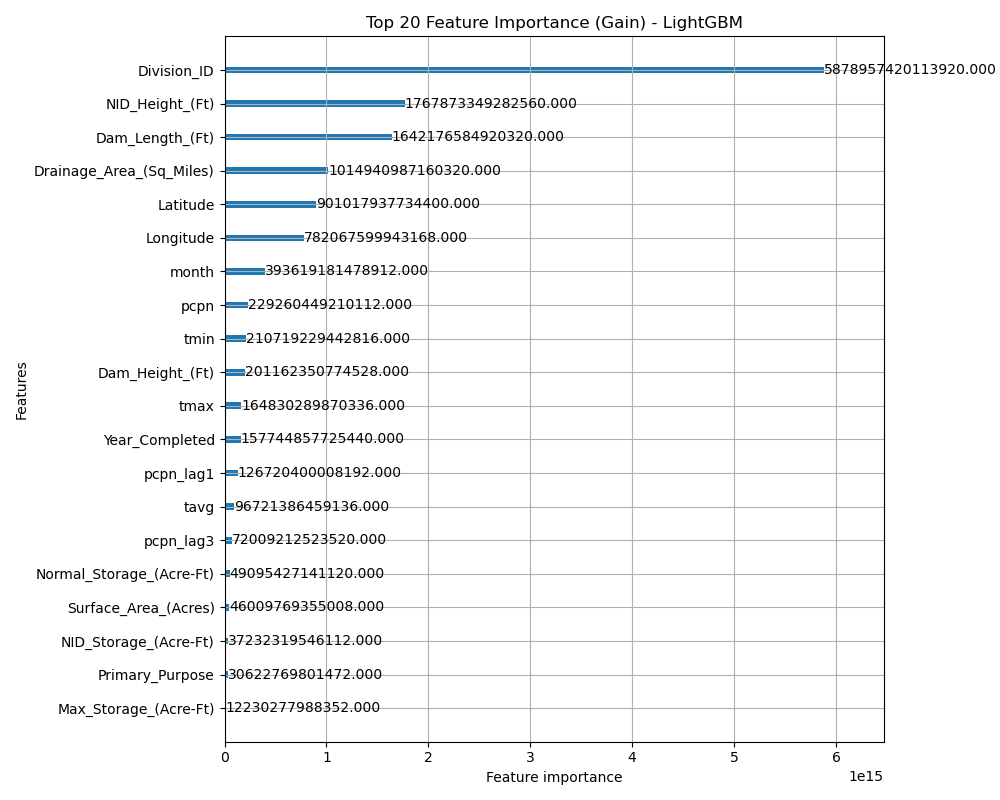
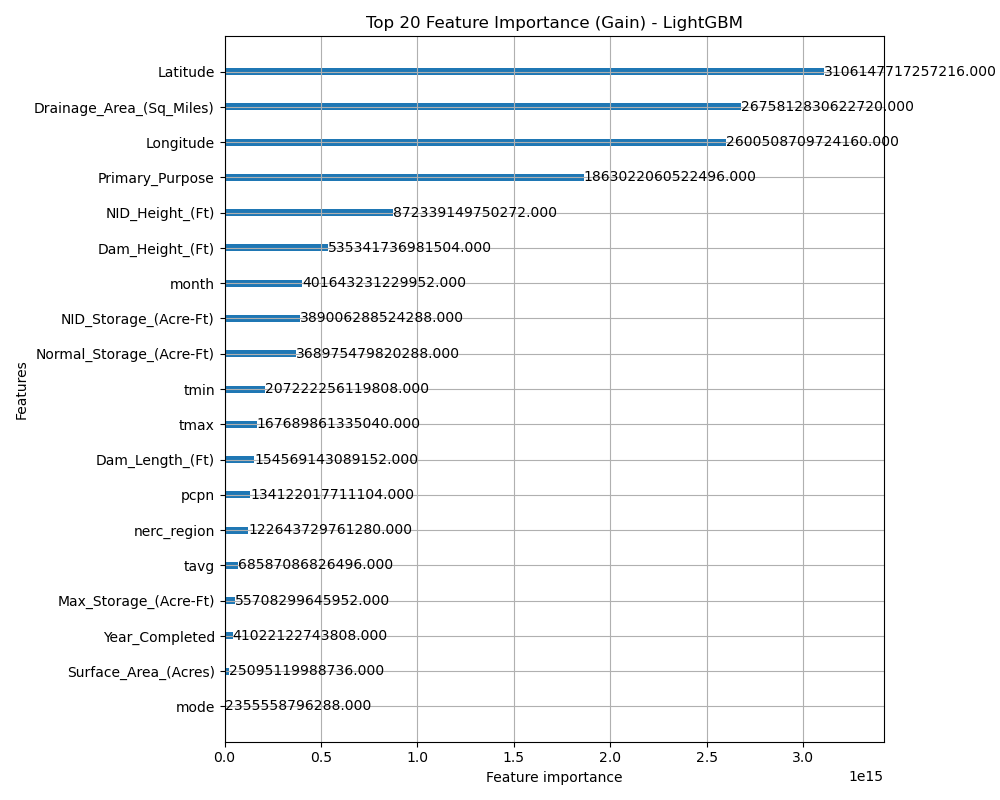
added results and README test

diff --git a/README.md b/README.md
@@ -1,53 +1,95 @@
-# fall-2025-climate-change-and-hydropower
-Team project: fall-2025-climate-change-and-hydropower
+### Climate Change and Hydropower 
 
-We do a 80:10:10 split. 90% is int train_val_set.csv and 10% is in final_test_set.csv We do not touch this until the very end.
+This is a repository for the Climate Change and Hydropower project as part of The Erdős Institute Fall 2025 Data Science Bootcamp.
+Team members: [Daniela Beckelhymer](https://github.com/dbeck7296), [Jeffrey Jackson](https://github.com/jeffreyjacksonwork), [Cory Peters](https://github.com/CPeters31415926535), [Sreelakshmi Sindhu](https://github.com/sreelakshmisindhu).
 
-Features:
+## Table of contents
 
-year - Year of row
+1. Introduction
+2. 
 
-month - Month of row
 
-RectifHyd_MWh - Our Target, the MWh (Megawatt hour) the dam produced. RectifHyd is our source for this data.
+## Introduction
 
-mode - Either "Storage" or "RoR" indicating if the plant is primarily operated as a storage or ron-of-river facility
+Hydropower supplies roughly 30-35% of US renewable electricity and plays a vital role in balancing the power grid, especially as variable solar and wind generation expand. Hydroelectric output is highly sensitive to climatic and hydrologic variability, especially precipitation, temperature, snowpack, and river flow, as well as to the physical design and storage capacity of individual dams. Studies show that climate anomalies such as droughts, heat waves, changing snowmelt timing already affect hydroelectric generation across the US regions. Despite these findings, there is no unified, data driven framework that links nationwide dam characteristics and observed climate data to predict hydropower generation outcomes on a monthly basis.
 
-Latitude - Coordinate
+This project addresses this gap by integrating the important climate record and hydroplant meta-data to build a reproducible model that estimates monthly hydropower generation from 2001-2021 at the dam level based on physical and climate data. By quantifying how physical design and climate variables jointly explain production variability, the model supports federal agencies (DOE, USACE, NOAA) that manage water and energy, regional grid operators (NERC, ISOs) that ensure reliability and utility companies that plan operations and market participation. It also supports researchers and policy makers who assess climate impacts, economic risks and ecosystem tradeoffs tied to hydropower variability.
 
-Longitude - Coordinate
+## Dataset
+We collected data for both hydropower output, and climate conditions from 2001-2022.
+Climate Data - We used data from the National Centers for Environmental Information (NCEI). The data we collected was monthly precipitation (inches)  and minimum, average, and maximum monthly temperature (fahrenheit). The way the NCEI collects climate information is as follows. First they took the continental US, took each state and for a given state, divided them in up to 10 climate divisions based on geographical and climate factors. They then collect and display climate information they gather from these zones. We use the coordinates from the dams to match which climate division they correspond to. 
+Hydropower Data - The power is measured in MWh, and provided by Oak Ridge National Laboratory and Pacific Northwest National Laboratory, under the dataset named RectifHyd. The laboratories took MWh annual measurements and utilized riverflow information to gather the estimated monthly MWh output (hence the name “rectified hydropower”). The dataset included a total of around 1500 dams in the continental US. 
+Hydroplant Metadata - We find data about each dam from two sources, the National Inventory of Dams (NID) and from a group named GODEEEP. We include features about the physical aspects of the dam, such as the height and surface area, as well as the primary purpose of the dams, whether it be for hydropower or marine life passage.  
 
-nerc_region -  Four letter code for the NERC region of the facility, entity that governs the maintenance and standardization of the dams.
+## Input Features
 
-Primary Purpose - What the dam is used for primarily
+Input features included in the dataset and the sources are listed here.
 
-Dam Height (Ft) - Height of the dam, in feet to the nearest foot, which is defined as the difference between the lowest elevation on the crest of the dam and the lowest elevation in the original streambed; or if not present, the lowest elevation of the downstream toe of the embankment.
+1. year - Year of row
+2. month - Month of row
+3. RectifHyd_MWh - Our Target, the MWh (Megawatt hour) the dam produced. RectifHyd is our source for this data.
+4. Mode - Either "Storage" or "RoR" indicating if the plant is primarily operated as a storage or ron-of-river facility
+5. Latitude - Coordinate
+6. Longitude - Coordinate
+7. nerc_region -  Four letter code for the NERC region of the facility, entity that governs the maintenance and standardization of the dams.
+8. Primary Purpose - What the dam is used for primarily
+9. Dam Height (Ft) - Height of the dam, in feet to the nearest foot, which is defined as the difference between the lowest elevation on the crest of the dam and the lowest elevation in the original streambed; or if not present, the lowest elevation of the downstream toe of the embankment.
+10. NID Height (Ft) - Maximum value of either the dam height, structural height, or hydraulic height. Accepted as the general height of the dam.
+11. Dam Length (Ft) - Length of the dam, in feet, which is defined as the length along the top of the dam. This also includes the spillway, powerplant, navigation lock, fish pass, etc., where these form part of the length of the dam. If detached from the dam, these structures should not be included.
+12. Year Completed - Year (four digits) when the original main dam structure was completed. If unknown, and a reasonable estimate is unavailable, 0000 is used.
+13. NID Storage (Acre-Ft) - Maximum value of normal storage and maximum storage. Accepted as the general storage of the dam.
+14. Max Storage (Acre-Ft) - Maximum storage is defined as the total storage space in a reservoir below the maximum attainable water level, including any surcharge storage
+15. Normal Storage (Acre-Ft) - Normal storage is defined as the total storage space in a reservoir below the normal retention level, including dead and inactive storage and excluding any flood control or surcharge storage. For normally dry flood control dams, the normal storage will be a zero value. If unknown, enter ?~@~\UNK?~@~] and not zero.
+16. Surface Area (Acres) - Surface area, in acres, of the impoundment at its normal water level.
+17. Drainage Area (Sq Miles) - Drainage area of the dam, in square miles, which is defined as the area that drains to the dam reservoir(s).
+18. Division_ID - Division code given by the NCEI that tells us what state and climate region this dam is in
+19. tmin - Minimum temperature this month (deg. F. to 10ths)
+20. tmax - Maximum temperature this month (deg. F. to 10ths)
+21. tavg - Average temperature this month (deg. F. to 10ths)
+22. pcpn - Precipitation this month (inches to 100ths)
 
-NID Height (Ft) - Maximum value of either the dam height, structural height, or hydraulic height. Accepted as the general height of the dam.
+## Sources
 
-Dam Length (Ft) - Length of the dam, in feet, which is defined as the length along the top of the dam. This also includes the spillway, powerplant, navigation lock, fish pass, etc., where these form part of the length of the dam. If detached from the dam, these structures should not be included.
+(1) The Feature definitions are as per [link](https://floridadep.gov/sites/default/files/Dam%20Parameter%20Definitions.pdf)
 
-Year Completed - Year (four digits) when the original main dam structure was completed. If unknown, and a reasonable estimate is unavailable, 0000 is used.
+(2) The Dams dataset is from the National Inventory of Dams (NID) [link](https://nid.sec.usace.army.mil/nid/#/)
 
-NID Storage (Acre-Ft) - Maximum value of normal storage and maximum storage. Accepted as the general storage of the dam.
+(3) The weather/climate dataset is from the National Centers for Environmental Information (NCEI) https://www.ncei.noaa.gov/pub/data/cirs/climdiv/
 
-Max Storage (Acre-Ft) - Maximum storage is defined as the total storage space in a reservoir below the maximum attainable water level, including any surcharge storage
+(4) Metadata for EIA_ID not found in NID (Latitude, Longitude, nerc_region, mode)  dams/hydroplants https://zenodo.org/records/13776945 (godeeep_hydro_plants.csv)
 
-Normal Storage (Acre-Ft) - Normal storage is defined as the total storage space in a reservoir below the normal retention level, including dead and inactive storage and excluding any flood control or surcharge storage. For normally dry flood control dams, the normal storage will be a zero value. If unknown, enter “UNK” and not zero.
+(5) MWh feature target from Oak Ridge National Laboratory and Pacific Northwest National Laboratory https://zenodo.org/records/11584567
 
-Surface Area (Acres) - Surface area, in acres, of the impoundment at its normal water level.
+## Methods and Model
+The main problem in linking this data to the hydropower data was the fact that it turns out that every dam in the US has 2 different ID numbers, a federal ID and an Energy Information Agency ID (EIA_ID). NID used the federal ID and contained latitude and longitude coordinates, while GODEEEP contained EIA_IDs while also having coordinates. We used nearest neighbors to match each federal ID coordinate to its corresponding EIA_ID. Since the hydropower data was matching dams to their EIA_ID, we now have the metadata corresponding to their federal ID. From here, we need to assign what climate division each dam resides in. Utilizing the coordinates of the dam, we map them onto the climate divisions of the NCEI and attach the value onto the dam. Of course, we also append the corresponding climate information per month and year. The NCEI would have the occasional missing value in its database. We accounted for this by taking the average value of the category (for instance, max temperature) over the given month and climate division.  
 
-Drainage Area (Sq Miles) - Drainage area of the dam, in square miles, which is defined as the area that drains to the dam reservoir(s).
+We split the data into three parts based on year: 2001-2020 as training data, 2021 as testing data, and 2022 as validation data. From this split, we used two different models.
+Neural Network - We employed a fully connected feedforward network with one hidden layer. This model identified climate division, dam area, dam height, and purpose (whether the dam has significant water storage or is a run-of-the-river dam with a relatively small reservoir). Utilized pytorch to train the model.
+Decision Tree - We also trained a LightGBM decision tree model on our data. This model identified climate division, geographic location, dam area and dam height as the most important predictors for hydropower output.
 
-Division_ID - Division code given by the NCEI that tells us what state and climate region this dam is in
+On the withheld data, our two models performed as follows:
 
-tmin - Minimum temperature this month (deg. F. to 10ths)
 
-tmax - Maximum temperature this month (deg. F. to 10ths)
+## KPI & Results
+We evaluate model performance and practical usefulness through
+R^2, measuring the percentage of variation in monthly hydropower generation explained by the model
+RMSE and MAE, quantifying the average prediction error in megawatt hours(MWh) between the predicted and observed output.
 
-tavg - Average temperature this month (deg. F. to 10ths)
+These metrics assess how well the model captures real-world hydropower behavior across diverse regions and dam types, given a changing climate.
 
-pcpn - Precipitation this month (inches to 100ths)
+Our neural network achieved an R^2 value of 0.773, whereas the LightGBM model has an R^2 of 0.930. Thus, our decision tree-based approach was the better of the two at predicting novel hydropower. The MAE and RMSE of our LightGBM model were 5,069 and 19,214 MWh respectively.
+
+The most important features to LightGBM are all geographically and physically based, rather than climate related.
+
+
+
+## Future Directions
+To make our results more usable for stakeholders, it would be convenient to make an applet where a user selects a dam and inputs a monthly weather forecast and gets back a hydropower prediction.
+One limitation of our model is that it did not take into account the characteristics of the stream itself such as water height, sediment content or river flow speed. The United States Geological Survey (USGS) provides daily data for monitoring location for these parameters. Our model could be made more accurate after incorporating this data. 
+Our model currently considers a limited amount of climate data - only temperature and precipitation. Other factors such as snowfall or wind speed could potentially impact the power output of a dam.
+
+
+
 
 (1) The Feature definitions are as per [link](https://floridadep.gov/sites/default/files/Dam%20Parameter%20Definitions.pdf)
 
